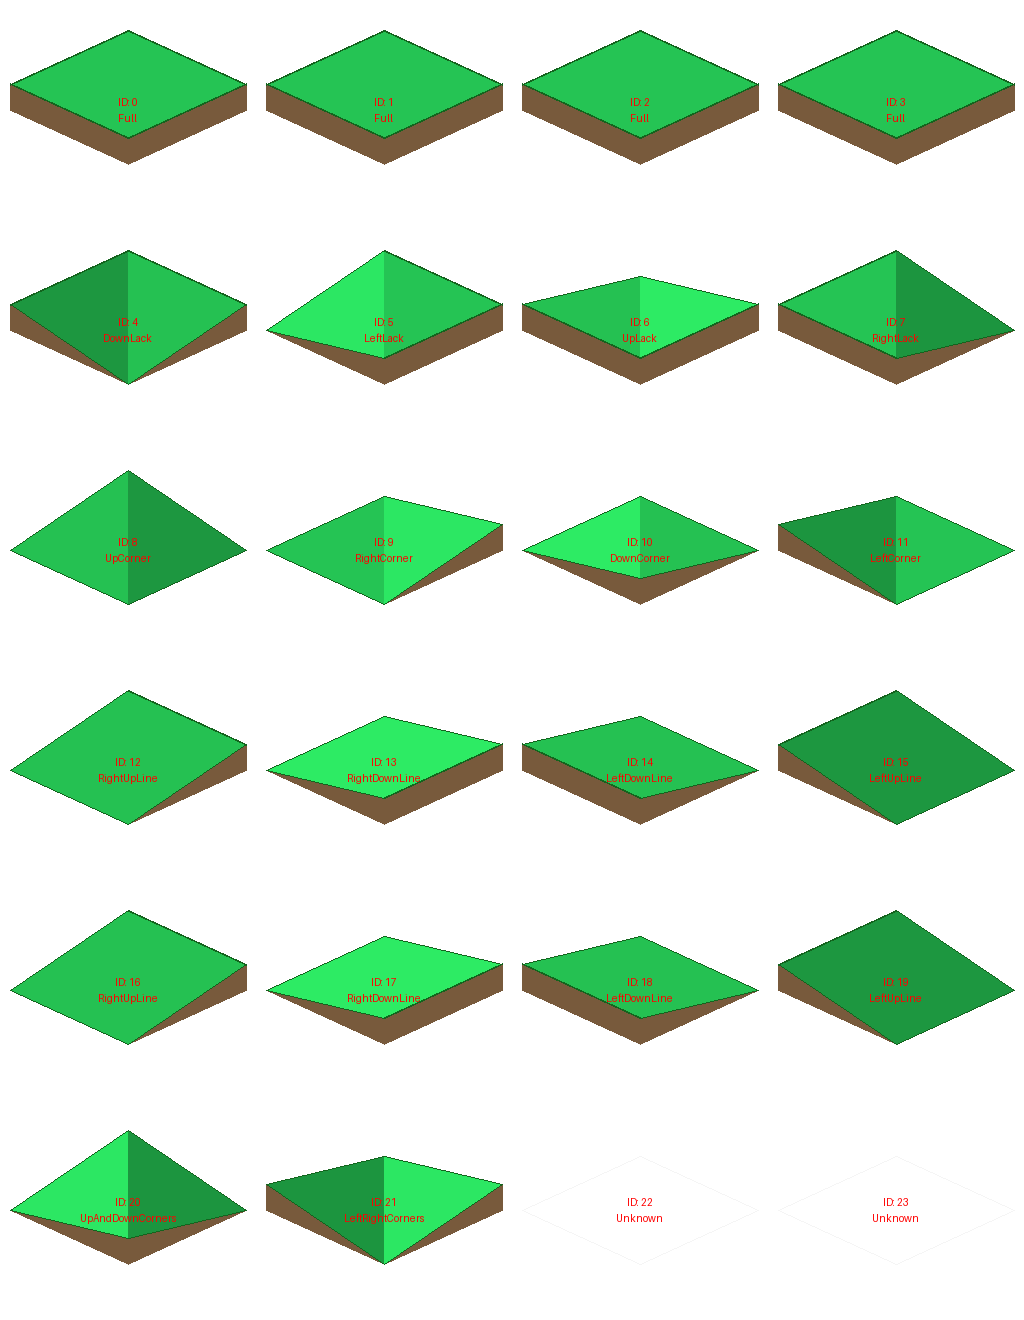
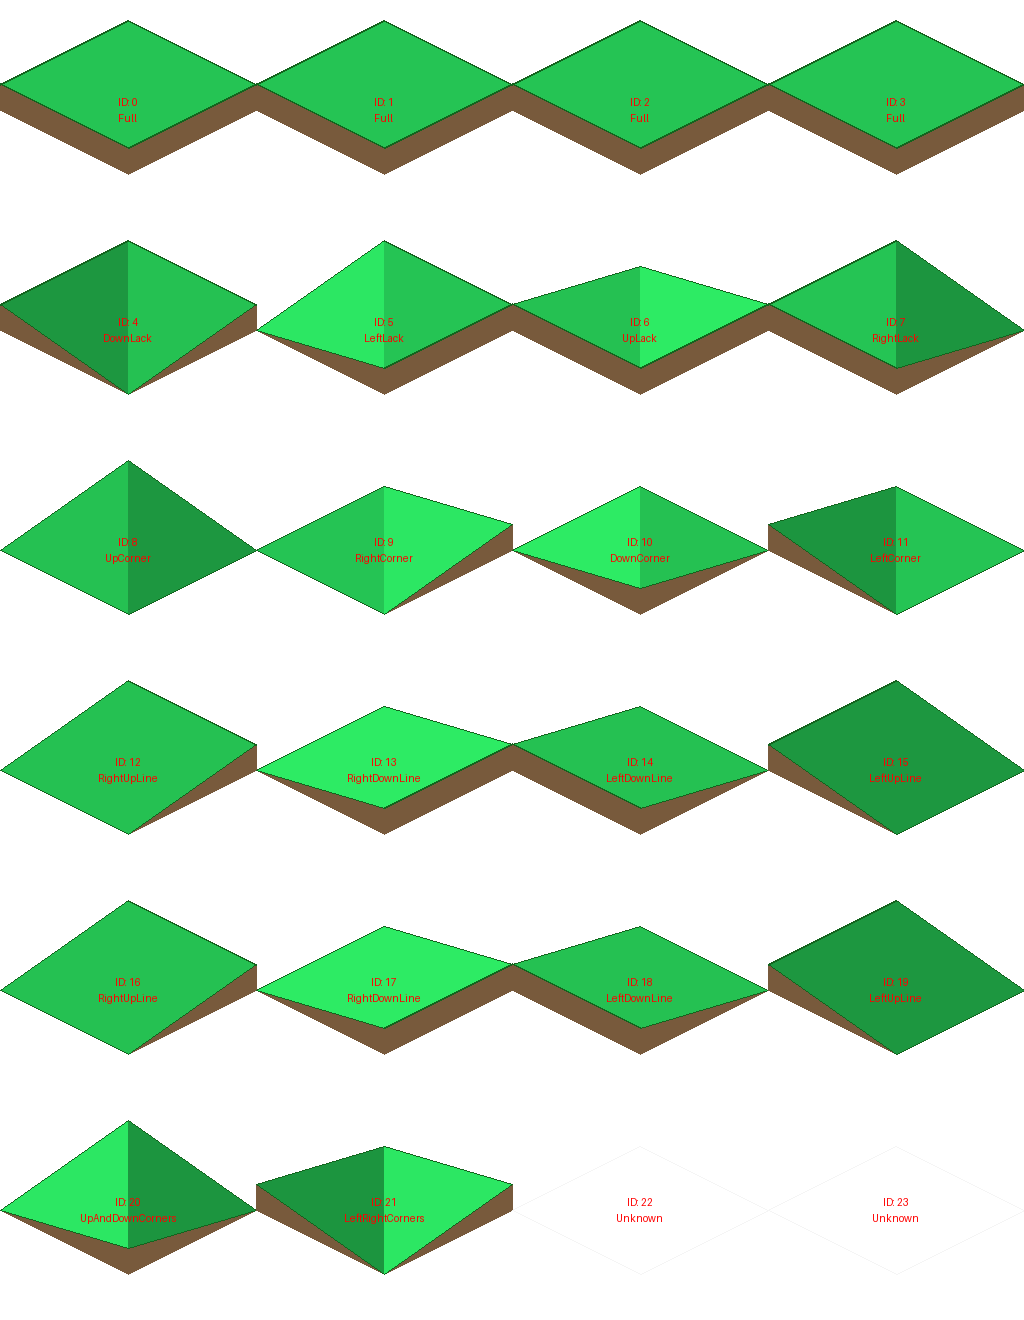
fix generate_atlas.py

diff --git a/generate_atlas.py b/generate_atlas.py
@@ -107,11 +107,16 @@ def generate_png_atlas():
         x, y = col * TILE_W, row * TILE_H
         cy_base = y + 110 
         
+        # Grid mathematics: 
+        # Cell size in staggered isometry is 2:1 ratio (width:height).
+        # To match the grid perfectly and avoid gaps ("brown stripes"), 
+        # the base diamond must be exactly 256x128 (since TILE_W=256).
+        
         pts_base = [
-            (x + 10, cy_base),       # 0: Left
-            (x + 128, cy_base - 54), # 1: Up
-            (x + 246, cy_base),      # 2: Right
-            (x + 128, cy_base + 54)  # 3: Down
+            (x + 0,   cy_base),       # 0: Left
+            (x + 128, cy_base - 64),  # 1: Up
+            (x + 256, cy_base),       # 2: Right
+            (x + 128, cy_base + 64)   # 3: Down
         ]
         
         pts_top = [(p[0], p[1] - ELEVATION) for p in pts_base]
